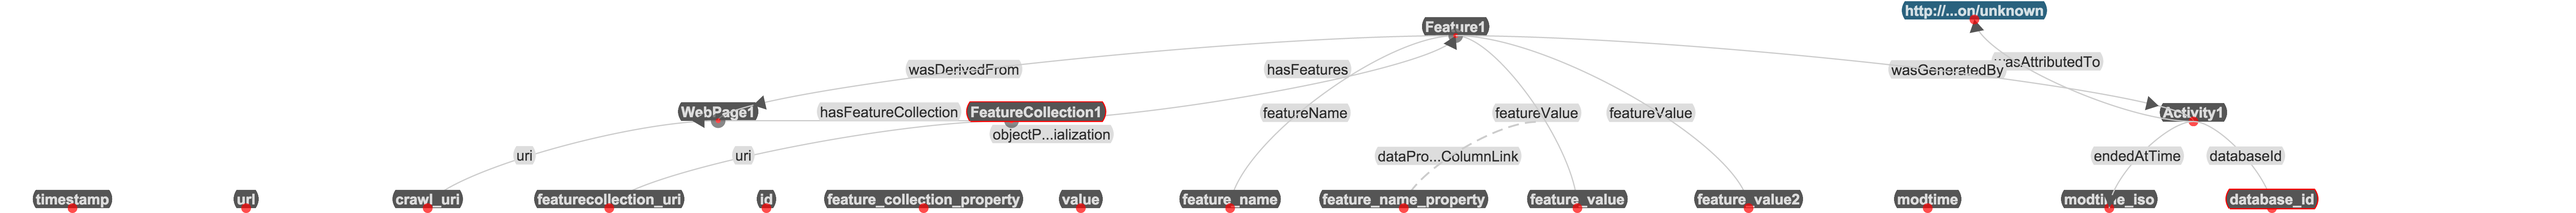
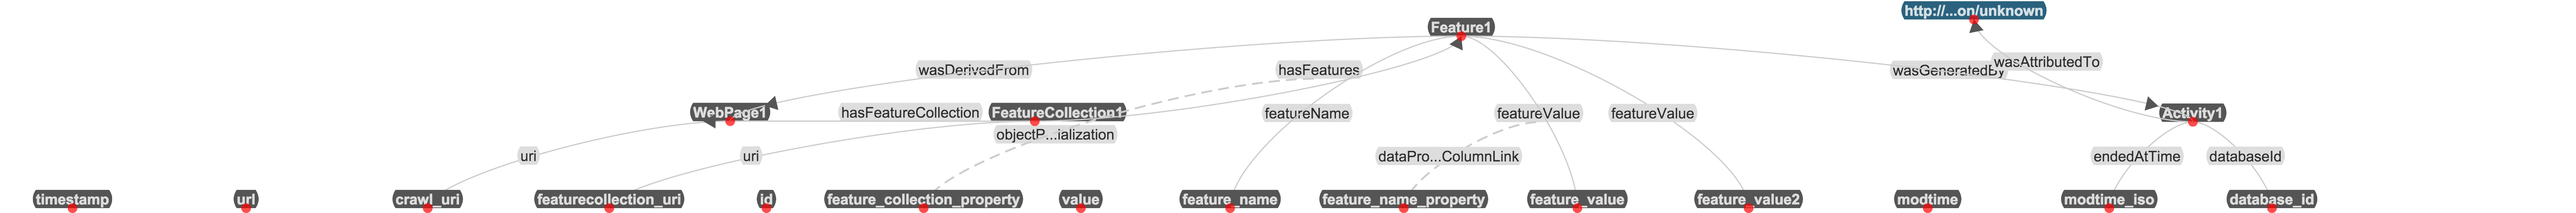
Add specialization of link for FeatureCollection - hasFeatures -> Feature

diff --git a/datasets/istr/ads-attributes/model-main/ads-attributes-main-model.md b/datasets/istr/ads-attributes/model-main/ads-attributes-main-model.md
@@ -82,5 +82,5 @@ return ''
 | `memex:Feature1` | `prov:wasGeneratedBy` | `prov:Activity1`|
 | `memex:Feature1` | `prov:wasDerivedFrom` | `schema:WebPage1`|
 | `memex:FeatureCollection1` | `memex:hasFeatures` | `memex:Feature1`|
-| `prov:Activity1` | `prov:wasAttributedTo` | `xsd:http://memex.zapto.org/data/software/extractor/ist-attributes/version/unknown`|
+| `prov:Activity1` | `prov:wasAttributedTo` | `xsd:http://memex.zapto.org/data/software/extractor/ist/attributes/version/unknown`|
 | `schema:WebPage1` | `memex:hasFeatureCollection` | `memex:FeatureCollection1`|
